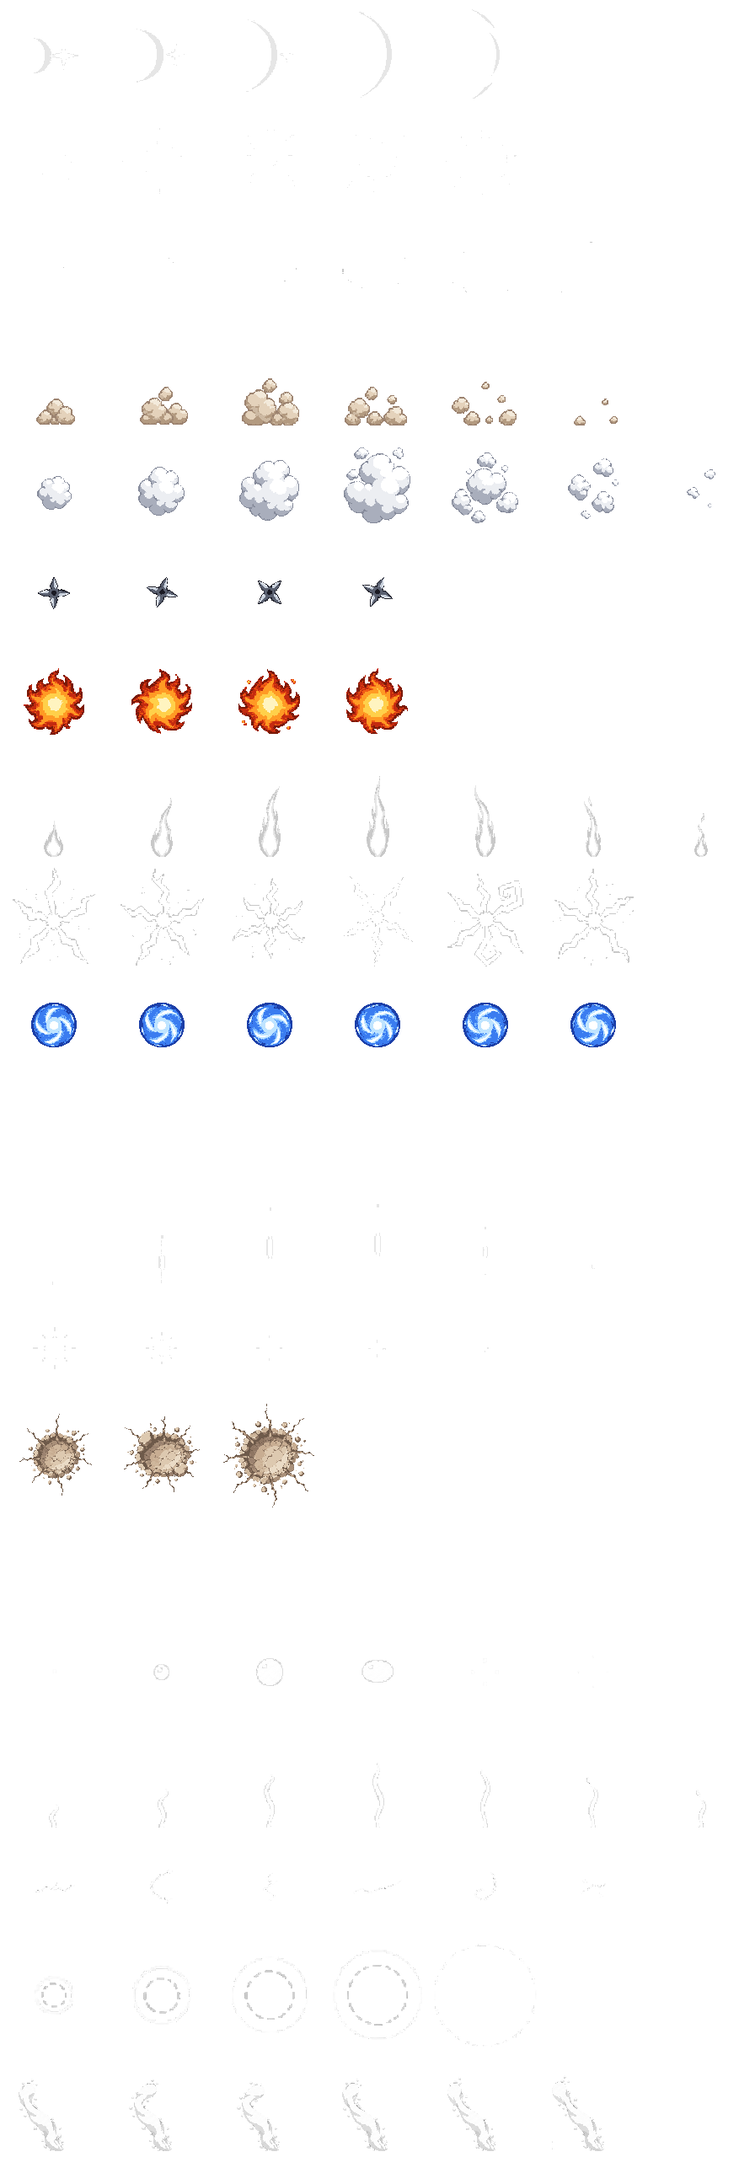
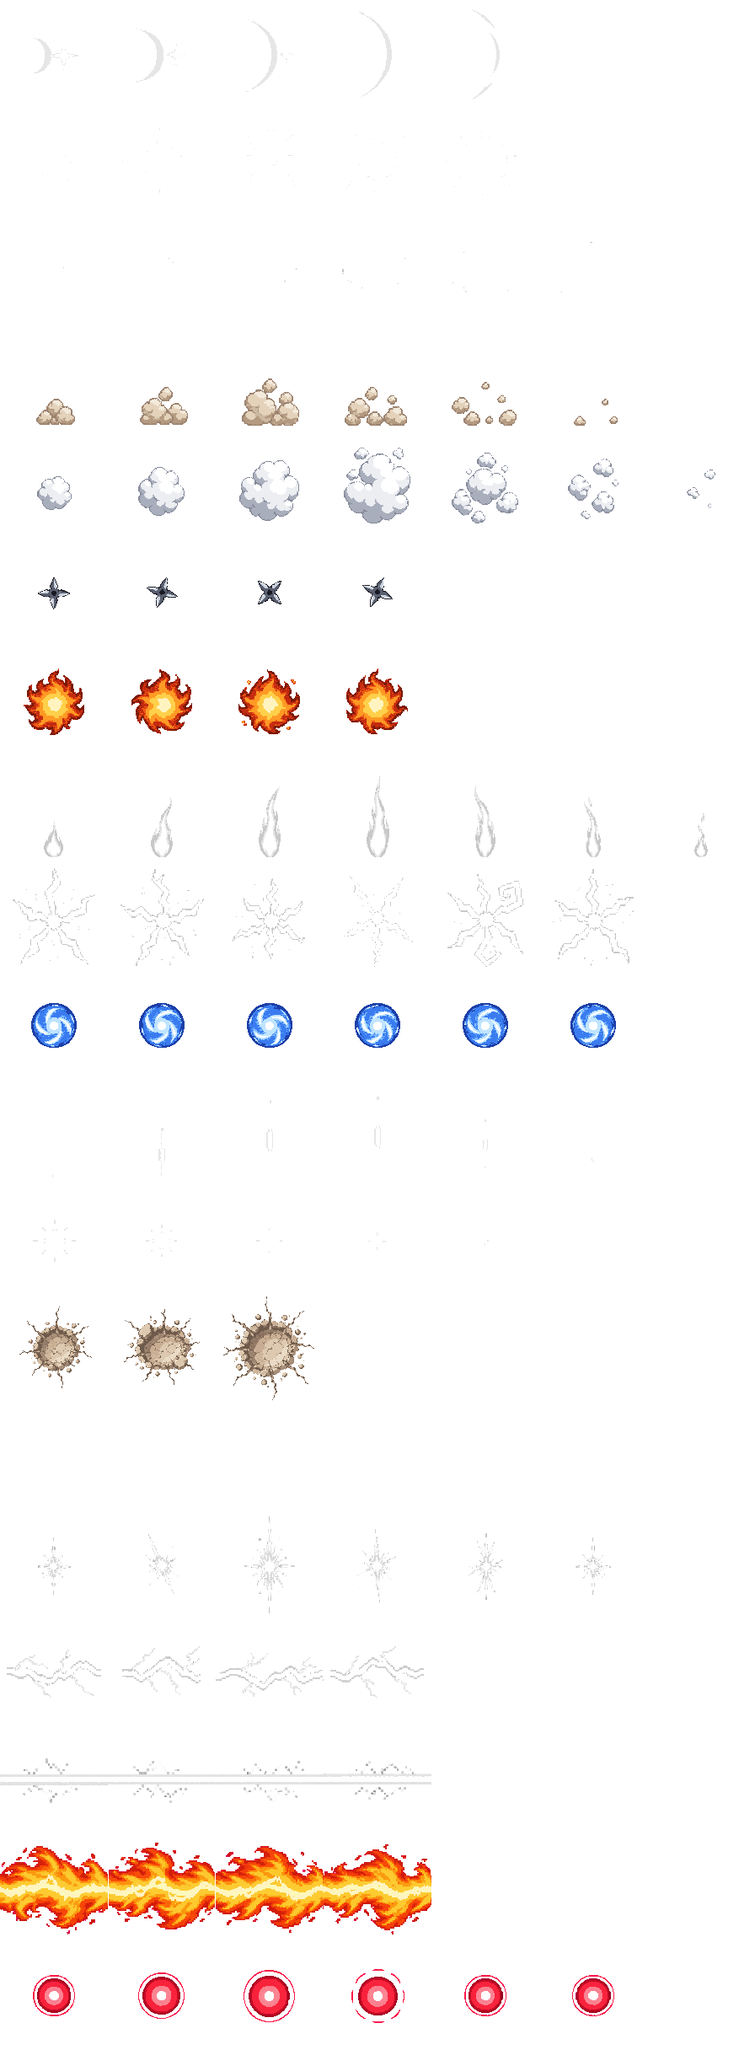
art(vfx): approve beam clash effects v01

diff --git a/public/reviews/beam-clash-r1/index.html b/public/reviews/beam-clash-r1/index.html
@@ -15,7 +15,7 @@
 <body>
 <main>
   <h1>Beam Clash Art — Round 1</h1>
-  <p class="lede">Five shared clash-effect candidates and Naruto’s optional two-handed Rasengan struggle pilot. All art is unapproved and remains review-only.</p>
+  <p class="lede">The five shared clash effects are approved at v01. Naruto’s optional two-handed Rasengan struggle pilot remains on technical hold.</p>
   <section class="card hold">
     <span class="badge hold">Naruto pilot: TECHNICAL HOLD</span>
     <p class="warning"><strong>Please do not approve Naruto beamStruggle v01 as production art yet.</strong> Its strict 48-color pack failed against the approved idle: head/hair measured 1.40× and feet 0.62×. Estimated palm points also drift between frames by more than the 6 px limit. The required body sheet and final Astra audit are not available for this failed pack.</p>
@@ -27,11 +27,11 @@
   <h2>Shared clash effects</h2>
   <p>Each contact sheet shows the packed 128×128 frames enlarged 4× with nearest-neighbor scaling. The GIF beside it loops at the brief’s per-frame timing.</p>
   <div class="grid">
-    <section class="card"><h3>clashBurst <span class="badge">6 frames · 45 ms</span></h3><img class="media contact" src="clashBurst-frames-4x.png" alt="Six clashBurst frames at 4x"><img class="media gif" src="clashBurst-loop.gif" alt="Looping clashBurst effect"></section>
-    <section class="card"><h3>streamBolt <span class="badge">4 frames · 40 ms</span></h3><img class="media contact" src="streamBolt-frames-4x.png" alt="Four streamBolt frames at 4x"><img class="media gif" src="streamBolt-loop.gif" alt="Looping streamBolt effect"><details><summary>Two-copy tile seam check, every frame</summary><img class="media seams" src="streamBolt-seams-2x.png" alt="Each streamBolt tile repeated twice side by side"></details></section>
-    <section class="card"><h3>streamLance <span class="badge">4 frames · 40 ms</span></h3><img class="media contact" src="streamLance-frames-4x.png" alt="Four streamLance frames at 4x"><img class="media gif" src="streamLance-loop.gif" alt="Looping streamLance effect"><details><summary>Two-copy tile seam check, every frame</summary><img class="media seams" src="streamLance-seams-2x.png" alt="Each streamLance tile repeated twice side by side"></details></section>
-    <section class="card"><h3>streamFlame <span class="badge">4 frames · 50 ms</span></h3><img class="media contact" src="streamFlame-frames-4x.png" alt="Four streamFlame frames at 4x"><img class="media gif" src="streamFlame-loop.gif" alt="Looping streamFlame effect"><details><summary>Two-copy tile seam check, every frame</summary><img class="media seams" src="streamFlame-seams-2x.png" alt="Each streamFlame tile repeated twice side by side"></details></section>
-    <section class="card"><h3>redOrb <span class="badge">6 frames · 40 ms</span></h3><img class="media contact" src="redOrb-frames-4x.png" alt="Six redOrb frames at 4x"><img class="media gif" src="redOrb-loop.gif" alt="Looping redOrb effect"></section>
+    <section class="card"><h3>clashBurst <span class="badge">approved v01</span> <span class="badge">6 frames · 45 ms</span></h3><img class="media contact" src="clashBurst-frames-4x.png" alt="Six clashBurst frames at 4x"><img class="media gif" src="clashBurst-loop.gif" alt="Looping clashBurst effect"></section>
+    <section class="card"><h3>streamBolt <span class="badge">approved v01</span> <span class="badge">4 frames · 40 ms</span></h3><img class="media contact" src="streamBolt-frames-4x.png" alt="Four streamBolt frames at 4x"><img class="media gif" src="streamBolt-loop.gif" alt="Looping streamBolt effect"><details><summary>Two-copy tile seam check, every frame</summary><img class="media seams" src="streamBolt-seams-2x.png" alt="Each streamBolt tile repeated twice side by side"></details></section>
+    <section class="card"><h3>streamLance <span class="badge">approved v01</span> <span class="badge">4 frames · 40 ms</span></h3><img class="media contact" src="streamLance-frames-4x.png" alt="Four streamLance frames at 4x"><img class="media gif" src="streamLance-loop.gif" alt="Looping streamLance effect"><details><summary>Two-copy tile seam check, every frame</summary><img class="media seams" src="streamLance-seams-2x.png" alt="Each streamLance tile repeated twice side by side"></details></section>
+    <section class="card"><h3>streamFlame <span class="badge">approved v01</span> <span class="badge">4 frames · 50 ms</span></h3><img class="media contact" src="streamFlame-frames-4x.png" alt="Four streamFlame frames at 4x"><img class="media gif" src="streamFlame-loop.gif" alt="Looping streamFlame effect"><details><summary>Two-copy tile seam check, every frame</summary><img class="media seams" src="streamFlame-seams-2x.png" alt="Each streamFlame tile repeated twice side by side"></details></section>
+    <section class="card"><h3>redOrb <span class="badge">approved v01</span> <span class="badge">6 frames · 40 ms</span></h3><img class="media contact" src="redOrb-frames-4x.png" alt="Six redOrb frames at 4x"><img class="media gif" src="redOrb-loop.gif" alt="Looping redOrb effect"></section>
   </div>
   <section class="card">
     <h2>Technical record</h2>
@@ -39,7 +39,8 @@
       <li>VFX candidate pack: all five new effects extracted; four exact 128×128 tiles for each stream; no new tile or packer warnings for these five.</li>
       <li>The sparse task worktree lacks several unrelated legacy raw VFX and Naruto sources. The pack reports those absent-source warnings; they are not changes in this batch.</li>
       <li>Naruto `beamStruggle_v01`: strict quantized scale gate failed; 47-color diagnostic pack had 3 frames. Head 1.40× idle; feet 0.62× idle. Approximate hand centers and their spread are recorded in the review notes and hitboxes sidecar.</li>
-      <li>Final Astra anatomy audit is pending. No image approval, production integration, merge, or deployment has occurred.</li>
+      <li>The five VFX v01 candidates are approved and recorded. Naruto’s pilot still awaits scale/contact remediation, body sheet, and final Astra anatomy audit.</li>
+      <li>No production integration, merge, or production deployment has occurred.</li>
     </ul>
     <p>Briefs: <a href="https://github.com/eshin087/gcd-tourney/blob/main/art/vfx/EFFECTS.md">VFX specs</a> · <a href="https://github.com/eshin087/gcd-tourney/blob/main/art/characters/BEAM_STRUGGLE_BRIEF.md">struggle poses</a> · <a href="https://github.com/eshin087/gcd-tourney/blob/main/docs/decisions/0034-beam-clash-visuals.md">ADR 0034</a>.</p>
   </section>

diff --git a/art/REVIEW.md b/art/REVIEW.md
@@ -53,11 +53,11 @@ Status values: `needs review` · `approved` · `rejected`.
 
 | date | character | asset | file | version | status | what changed | QA notes |
 | 2026-10-15 | naruto | beamStruggle | [v01](characters/naruto/raw/beamStruggle_v01.png) · [same-density comparison](../public/reviews/beam-clash-r1/naruto-same-density.png) · [loop](../public/reviews/beam-clash-r1/naruto-beamStruggle-loop.gif) | v01 | needs review | Two-handed Rasengan push pilot, selected from the first two generation attempts; 3 total calls used in this round. | TECHNICAL HOLD: strict 48-color pack failed: head/hair = 1.40x approved idle, feet = 0.62x. Approximate packed palm centers f0-f2: (238,97), (218,94), (241,82), about +/-4px; spread and contact-zone violations fail the brief. No body sheet because no idle atlas was available to the body tool; final Astra atlas audit pending. The strict failure wrote no new packed output. Do not approve as production art. |
-| 2026-10-15 | vfx | redOrb | [v01](vfx/raw/redOrb_v01.png) · [4x frames](../public/reviews/beam-clash-r1/redOrb-frames-4x.png) · [loop](../public/reviews/beam-clash-r1/redOrb-loop.gif) | v01 | needs review | Six-frame crimson Red sphere and outward ring. | Candidate pack succeeded with no new effect warning. 6 frames at 128x128; 40 ms each. Generated in 1 call. No user approval. |
-| 2026-10-15 | vfx | streamFlame | [v01](vfx/raw/streamFlame_v01.png) · [4x frames](../public/reviews/beam-clash-r1/streamFlame-frames-4x.png) · [loop](../public/reviews/beam-clash-r1/streamFlame-loop.gif) · [tile seams](../public/reviews/beam-clash-r1/streamFlame-seams-2x.png) | v01 | needs review | Four-frame repeating Great Fireball stream band. | Candidate pack succeeded with no new effect warning. Four exact 128x128 tiles; all four doubled seams inspected. 50 ms each. Generated in 1 call. No user approval. |
-| 2026-10-15 | vfx | streamLance | [v01](vfx/raw/streamLance_v01.png) · [4x frames](../public/reviews/beam-clash-r1/streamLance-frames-4x.png) · [loop](../public/reviews/beam-clash-r1/streamLance-loop.gif) · [tile seams](../public/reviews/beam-clash-r1/streamLance-seams-2x.png) | v01 | needs review | Four-frame straight Chidori Spear stream band. | Candidate pack succeeded with no new effect warning. Four exact 128x128 tiles; all four doubled seams inspected. 40 ms each. Generated in 1 call. No user approval. |
-| 2026-10-15 | vfx | streamBolt | [v01](vfx/raw/streamBolt_v01.png) · [4x frames](../public/reviews/beam-clash-r1/streamBolt-frames-4x.png) · [loop](../public/reviews/beam-clash-r1/streamBolt-loop.gif) · [tile seams](../public/reviews/beam-clash-r1/streamBolt-seams-2x.png) | v01 | needs review | Four-frame branching Narukami stream band. | Candidate pack succeeded with no new effect warning. Four exact 128x128 tiles; all four doubled seams inspected. 40 ms each. Generated in 1 call. No user approval. |
-| 2026-10-15 | vfx | clashBurst | [v01](vfx/raw/clashBurst_v01.png) · [4x frames](../public/reviews/beam-clash-r1/clashBurst-frames-4x.png) · [loop](../public/reviews/beam-clash-r1/clashBurst-loop.gif) | v01 | needs review | Six-frame collision knot with vertical energy spikes. | Candidate pack succeeded with no new effect warning; 7 stray specks removed. White/grey tinted palette. 45 ms each. Selected from 2 generation calls. No user approval. |
+| 2026-10-15 | vfx | redOrb | [v01](vfx/raw/redOrb_v01.png) · [4x frames](../public/reviews/beam-clash-r1/redOrb-frames-4x.png) · [loop](../public/reviews/beam-clash-r1/redOrb-loop.gif) | v01 | approved | Six-frame crimson Red sphere and outward ring. | Candidate pack succeeded with no new effect warning. 6 frames at 128x128; 40 ms each. Generated in 1 call. User approved v01 in chat on 2026-10-15; approved atlas repacked. |
+| 2026-10-15 | vfx | streamFlame | [v01](vfx/raw/streamFlame_v01.png) · [4x frames](../public/reviews/beam-clash-r1/streamFlame-frames-4x.png) · [loop](../public/reviews/beam-clash-r1/streamFlame-loop.gif) · [tile seams](../public/reviews/beam-clash-r1/streamFlame-seams-2x.png) | v01 | approved | Four-frame repeating Great Fireball stream band. | Candidate pack succeeded with no new effect warning. Four exact 128x128 tiles; all four doubled seams inspected. 50 ms each. Generated in 1 call. User approved v01 in chat on 2026-10-15; approved atlas repacked. |
+| 2026-10-15 | vfx | streamLance | [v01](vfx/raw/streamLance_v01.png) · [4x frames](../public/reviews/beam-clash-r1/streamLance-frames-4x.png) · [loop](../public/reviews/beam-clash-r1/streamLance-loop.gif) · [tile seams](../public/reviews/beam-clash-r1/streamLance-seams-2x.png) | v01 | approved | Four-frame straight Chidori Spear stream band. | Candidate pack succeeded with no new effect warning. Four exact 128x128 tiles; all four doubled seams inspected. 40 ms each. Generated in 1 call. User approved v01 in chat on 2026-10-15; approved atlas repacked. |
+| 2026-10-15 | vfx | streamBolt | [v01](vfx/raw/streamBolt_v01.png) · [4x frames](../public/reviews/beam-clash-r1/streamBolt-frames-4x.png) · [loop](../public/reviews/beam-clash-r1/streamBolt-loop.gif) · [tile seams](../public/reviews/beam-clash-r1/streamBolt-seams-2x.png) | v01 | approved | Four-frame branching Narukami stream band. | Candidate pack succeeded with no new effect warning. Four exact 128x128 tiles; all four doubled seams inspected. 40 ms each. Generated in 1 call. User approved v01 in chat on 2026-10-15; approved atlas repacked. |
+| 2026-10-15 | vfx | clashBurst | [v01](vfx/raw/clashBurst_v01.png) · [4x frames](../public/reviews/beam-clash-r1/clashBurst-frames-4x.png) · [loop](../public/reviews/beam-clash-r1/clashBurst-loop.gif) | v01 | approved | Six-frame collision knot with vertical energy spikes. | Candidate pack succeeded with no new effect warning; 7 stray specks removed. White/grey tinted palette. 45 ms each. Selected from 2 generation calls. User approved v01 in chat on 2026-10-15; approved atlas repacked. |
[2 lines of base64/hex data omitted]
 | 2026-10-14 | naruto | light3Alt | [light3Alt_v02.png](characters/naruto/raw/light3Alt_v02.png) | v02 | approved | New Part A mid-height torso kick aimed at approved light3 f2/f3 contact; retained v01 Part B and stitched a new immutable strip. | Round 5 Astra 2026-10-15 on final sheet `68dc5455...` (supersedes earlier packed QA): **HOLD — anatomy precision/projection unresolved**, not a demonstrated all-body failure. Kick contact is now mid-height and intact; f3 to f4 chamber is a large pose reset, startup differs from base. Full anatomy +/-6% unresolved. All frames/adjacent transitions/repeat boundary inspected. All-frame projected H-hair/T/upper arm/forearm/thigh/shin/shoe ranges = 39.1-41 / 33.1-37.1 / 15.6-19.8 / 19.7-25.9 / 26-39.6 (1 N/A) / 31.1-41.6 / 25-28.8 (1 N/A)px; uncertainty ±4/6/6/6/7/7/4px plus depth. All 7 frames now have endpoint records; hidden heel/hip and other-side exclusions are frame-specific. No forced ±6% intrinsic pass. [Complete frame table](characters/naruto/production/round5/astra-alts/PER-FRAME-MEASUREMENTS.md) · [all coordinates](characters/naruto/production/round5/astra-alts/per-frame-measurements.json). Base hit/hurt boxes and timing verified equal; no atlas-edge clip. [Round 5 audit](characters/naruto/production/round5/astra-alts/AUDIT.md) · [coordinates and every-frame notes](characters/naruto/production/round5/astra-alts/measurements.json) · [attempt ledger](characters/naruto/production/alts/ATTEMPT_INVENTORY.md) User approved light3Alt v02 as drawn on 2026-10-15 (all 24 remaining round5 strips). Historical Astra evidence and uncertainty remain; visual approval does not establish a new numeric anatomy pass. |

diff --git a/docs/agents/CLAUDE_ART_HANDOFF.md b/docs/agents/CLAUDE_ART_HANDOFF.md
@@ -502,15 +502,15 @@ checked per animation against both sources (identical alpha masks; mean color sh
 Sasuke charge ships v02. A fresh repack of all four on merged main is byte-identical to the committed sheets.
 The merged art worktrees are kept only because they hold untracked production scratch (PR bodies, before/after PNGs,
 helper scripts); remove them with `npm run pr -- prune` once that scratch is no longer needed.
-# Codex: beam-clash round 1 review package ready (2026-10-15, beam-clash lane)
+# Codex: beam-clash effects approved; Naruto pilot held (2026-10-15, beam-clash lane)
 
-Branch `art/beam-clash`, worktree `.worktrees/art-beam-clash`. Round-one candidates and phone review page are committed in this branch (commit recorded after creation). Review page: `public/reviews/beam-clash-r1/index.html`.
+Branch `art/beam-clash`, worktree `.worktrees/art-beam-clash`. PR #110 contains the recorded approval and approved atlas repack. Phone review page: `public/reviews/beam-clash-r1/index.html`.
 
-Five VFX candidates are packed for review: `clashBurst_v01` (2 generation calls), `streamBolt_v01`, `streamLance_v01`, `streamFlame_v01`, and `redOrb_v01` (1 call each). The three stream strips use four exact 128x128 frames; doubled seam checks are included. New effects had no packer tile warnings. All five are `needs review`; none is approved.
+The user explicitly approved all five VFX v01 candidates in Codex chat on 2026-10-15: `clashBurst_v01` (2 generation calls), `streamBolt_v01`, `streamLance_v01`, `streamFlame_v01`, and `redOrb_v01` (1 call each). The three stream strips use four exact 128x128 frames; doubled seam checks are included. Their review rows and manifest approval fields are updated, and `npm run sprites -- vfx` repacked the approved atlas. It reports six missing-source warnings for unrelated sparse-worktree legacy effects; the five new effects pack cleanly.
 
 Naruto `beamStruggle_v01` used 3 generation calls and is a technical hold. Strict quantized packing failed the scale gate (head/hair 1.40x approved idle; feet 0.62x); estimated hand centers vary beyond the 6 px contact stability limit. The body sheet could not be produced because the required idle atlas was unavailable to that tool run; the final GPT-6 Astra anatomy audit is pending. The review page asks the user not to approve this as production art. The approved atlas was restored unchanged.
 
-The five effects and Naruto pilot are recorded in `art/REVIEW.md`, `art/manifest.json`, `art/TRACKER.md`, `docs/TASKS.md`, and `CHANGELOG.md`. Do not begin round two until the user reviews this page and Claude relays the verdict. No user image approval, merge, or deployment has occurred.
+The approval is visual approval of these five VFX only; it does not clear the Naruto pilot, authorize the other fighters' strips, or merge/deploy this branch. Relay this user verdict to the coordination lane after the approval commit and preview update. Round two remains gated on Claude relaying the verdict back here and writing its item.
 
 ---
 

diff --git a/docs/TASKS.md b/docs/TASKS.md
@@ -218,7 +218,7 @@ the engine PR they depend on merges. Branches leave this file alone; the coordin
 | ID | Title | Owner | Status | Notes |
 |---|---|---|---|---|
 | ENG-082 | Beam clash visuals (ADR 0034): fix the white-out, glow ball, misaligned streams, blocky beam and HUD overlap in both clash tiers; a shape per move (`stream.style`: bolt, lance, flame, orb, ribbon); play `beamStruggle` and the clash effects when packed | Claude | in progress | user request 2026-10-15; contract merged PR #100 (0445bf7); engine branch feature/beam-clash-fx; files: src/game/game.js (clash drawing), src/game/projectiles.js (Beam), src/game/effects.js, src/game/moves.js (stream styles), src/ui/hud.js, src/game/camera.js |
-| ART-BEAM-CLASH | Beam clash art (ADR 0034): five clash effects, then `beamStruggle` for Naruto (pilot), Sasuke, Killua, Gojo, Goku | Codex | in progress | Round 1 review page `public/reviews/beam-clash-r1/` ready; five VFX v01 candidate packs clean. Naruto v01 technical hold: strict head/hair 1.40x and feet 0.62x approved idle, body sheet and Astra audit pending. Await user review before round 2; branch `art/beam-clash`, worktree `.worktrees/art-beam-clash`; brief art/characters/BEAM_STRUGGLE_BRIEF.md + art/vfx/EFFECTS.md "Beam clash" |
+| ART-BEAM-CLASH | Beam clash art (ADR 0034): five clash effects, then `beamStruggle` for Naruto (pilot), Sasuke, Killua, Gojo, Goku | Codex | in progress | User approved all five VFX v01 on 2026-10-15; approved atlas repacked. Naruto v01 technical hold: strict head/hair 1.40x and feet 0.62x approved idle, body sheet and Astra audit pending. Await Claude's relay of the user verdict before round 2; branch `art/beam-clash`, worktree `.worktrees/art-beam-clash`; brief art/characters/BEAM_STRUGGLE_BRIEF.md + art/vfx/EFFECTS.md "Beam clash" |
 | ENG-062 | Exiting training left a dead pause menu (undefined `MODE_ORDER`); Esc on character select did nothing | Claude | review | merged 2026-10-10 PR #31 (9fcb3d1), not yet deployed; user report 2026-10-10; branch fix/exit-training-menu; files: src/ui/menus.js (modeSelect/modeIndex), src/game/game.js (exitTraining/quitToTitle/results onChars), docs/TESTING.md |
 | ENG-063 | Results screen: drop the small duplicate winner sprite, slim side panel, steady hero camera showing the whole winner | Claude | review | merged 2026-10-10 PR #32 (a835f21), not yet deployed; user request 2026-10-10; branch fix/results-screen; files: src/ui/menus.js (results), src/style.css (results), src/game/game.js (flow/matchEnd/render/cleanupMatch), src/game/camera.js (results mode) |
 | ENG-064 | Hit flash: short white pop by hit weight, then a light tint and rim instead of a long full-white silhouette; lab A/B switch | Claude | review | merged 2026-10-10 PR #34 (53a08be), not yet deployed; user request 2026-10-10 (chose pop + tint); branch feature/hit-flash; files: src/game/sprites.js (FRAG), src/game/fighter.js (hfx, sync), src/game/game.js (tick), src/game/moves.js (HIT_FLASH), src/game/kit.js, src/lab/lab.js, src/main.js |

diff --git a/art/TRACKER.md b/art/TRACKER.md
@@ -438,11 +438,11 @@ ones.
 | ripple | 5 | 50 | white (tinted) | center | approved | v02 | v02 | User explicitly approved; normal atlas repacked; ready for Claude integration. |
 | naruto_chakraTail | 6 | 60 (loop) | white (tinted) | bottom | approved | v01 | v01 | User explicitly approved; normal atlas repacked; ready for Claude integration. |
 | dustWave | 6 | 60 | full color | bottom | todo | - | - | New for ground damage (ENG-070, ADR 0024): rolling dust walls around big craters; procedural until approved. Brief in EFFECTS.md. |
-| clashBurst | 6 | 45 | white (tinted) | center | packed | v01 | - | Beam clash (ADR 0034, ART-BEAM-CLASH): 2 calls; candidate pack passed with no effect warning. |
-| streamBolt | 4 | 40 | white (tinted) | center, tiles | packed | v01 | - | Beam clash: 1 call; four exact 128 x 128 tiles; all four doubled seam previews checked. |
-| streamLance | 4 | 40 | white (tinted) | center, tiles | packed | v01 | - | Beam clash: 1 call; four exact 128 x 128 tiles; all four doubled seam previews checked. |
-| streamFlame | 4 | 50 | full color | center, tiles | packed | v01 | - | Beam clash: 1 call; four exact 128 x 128 tiles; all four doubled seam previews checked. |
-| redOrb | 6 | 40 | full color | center | packed | v01 | - | Beam clash: 1 call; candidate pack passed with no effect warning. |
+| clashBurst | 6 | 45 | white (tinted) | center | approved | v01 | v01 | Beam clash (ADR 0034, ART-BEAM-CLASH): 2 calls; user approved v01 on 2026-10-15; approved atlas repacked. |
+| streamBolt | 4 | 40 | white (tinted) | center, tiles | approved | v01 | v01 | Beam clash: 1 call; four exact 128 x 128 tiles; all four doubled seam previews checked; user approved v01 on 2026-10-15; approved atlas repacked. |
+| streamLance | 4 | 40 | white (tinted) | center, tiles | approved | v01 | v01 | Beam clash: 1 call; four exact 128 x 128 tiles; all four doubled seam previews checked; user approved v01 on 2026-10-15; approved atlas repacked. |
+| streamFlame | 4 | 50 | full color | center, tiles | approved | v01 | v01 | Beam clash: 1 call; four exact 128 x 128 tiles; all four doubled seam previews checked; user approved v01 on 2026-10-15; approved atlas repacked. |
+| redOrb | 6 | 40 | full color | center | approved | v01 | v01 | Beam clash: 1 call; user approved v01 on 2026-10-15; approved atlas repacked. |
 
 ## Shared UI (step 11)
 

diff --git a/CHANGELOG.md b/CHANGELOG.md
@@ -13,7 +13,7 @@ Fixed, Security. Reference task ids and ADRs where useful.
 
 - docs(scale): claim the five authorized loose-end repairs; leave Gojo to J/K/L per user clarification.
 - Added: the beam clash art contract (ADR 0034, ENG-082): the optional `beamStruggle` animation (3-frame braced push, falls back to `beamFire`) and five clash effects (`clashBurst`, `streamBolt`, `streamLance`, `streamFlame`, `redOrb`) with procedural stand-ins; the packer warns about a stream band frame that cannot tile. Briefs: art/characters/BEAM_STRUGGLE_BRIEF.md, art/vfx/EFFECTS.md "Beam clash".
-- Art (ART-BEAM-CLASH): packed five v01 clash-effect candidates and prepared a phone review page with frame sheets, loops, and stream seam checks. Naruto `beamStruggle` v01 is on technical hold: strict scale measured head/hair at 1.40x and feet at 0.62x approved idle; body sheet and Astra atlas audit remain pending. No art is approved.
+- Art (ART-BEAM-CLASH): user approved all five v01 clash effects on 2026-10-15; updated manifest/review/tracker and repacked the approved VFX atlas. Naruto `beamStruggle` v01 remains on technical hold: strict scale measured head/hair at 1.40x and feet at 0.62x approved idle; body sheet and Astra atlas audit remain pending.
 
 - Fixed: the GitHub publish keeps commit ids in commit messages as written (`--preserve-commit-hashes`), so a message citing a branch commit no longer changes the slim history when that branch merges; branch publishes replace their own GitHub branch and `-- --force` replaces GitHub main once (TOOL-043).
 
